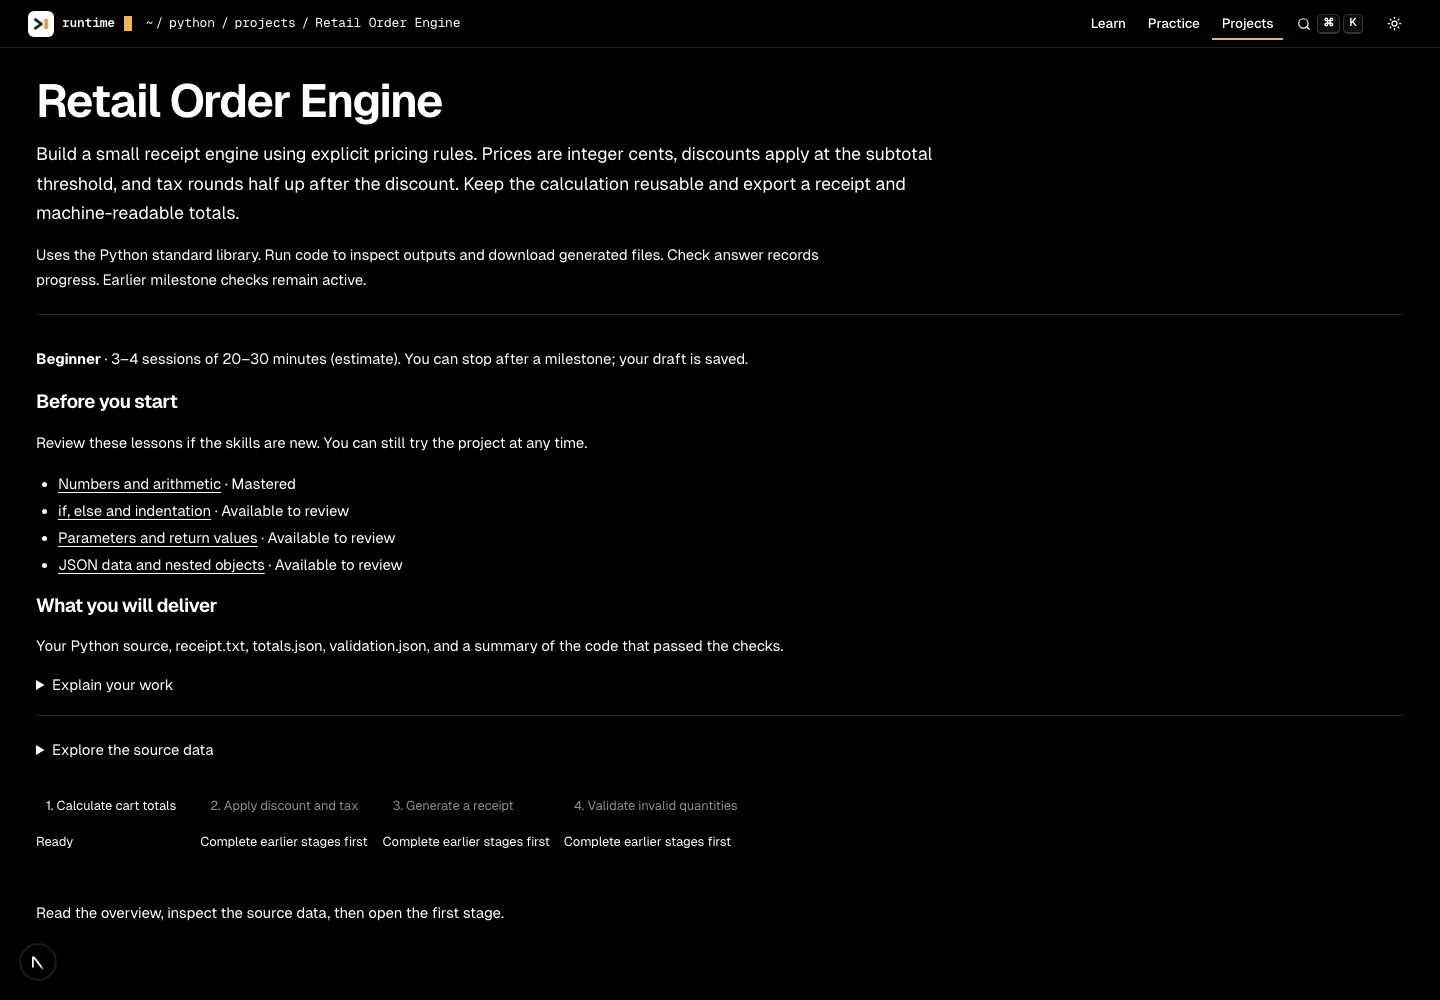
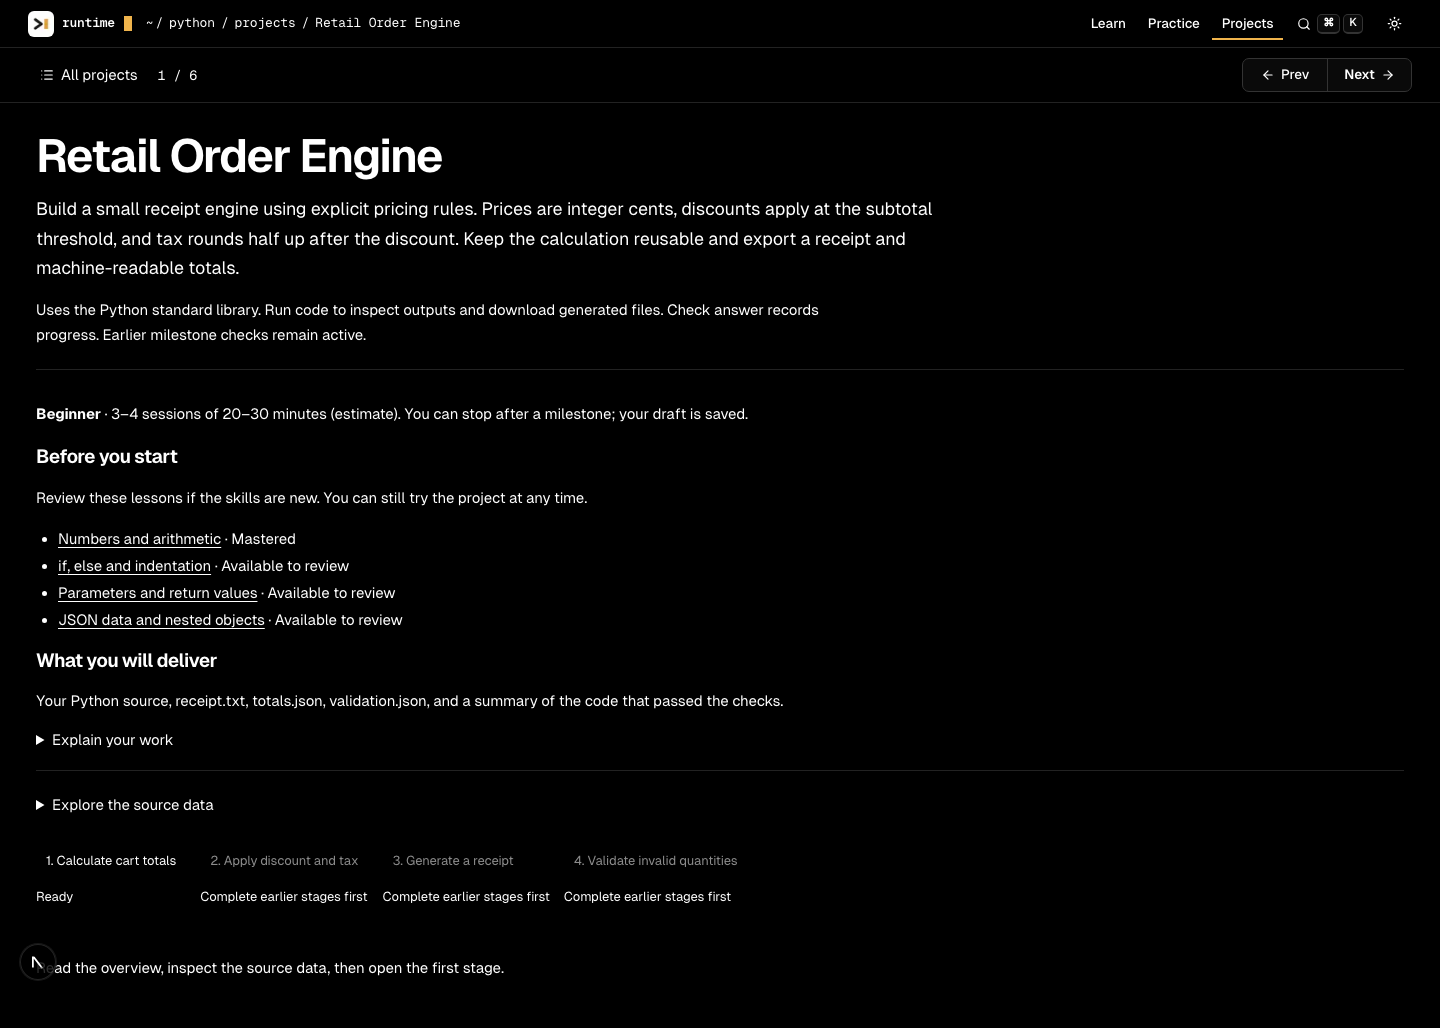
Align Python section navigation with SQL workspaces

diff --git a/src/features/py/Journeys.tsx b/src/features/py/Journeys.tsx
@@ -6,6 +6,7 @@ import { projectGuides, projectLevels, projectSkills } from '@/content/python/jo
 import { getPythonLesson, pythonLessonHref } from '@/content/python';
 import { isPyLessonMastered, usePyProgress, usePyProgressReady } from '@/lib/python-progress';
 import { Shell } from '@/features/rt/Shell';
+import { BrowserBar } from './BrowserBar';
 import { Exercise } from './Study';
 import { Download } from './Downloads';
 
@@ -70,12 +71,12 @@ function ProjectPreparation({ slug }: { slug: string }) {
   </div>;
 }
 
-export function Journey({ slug }: { slug: string }) {
+export function Journey({ slug, initialStage }: { slug: string; initialStage?: string }) {
   const j = pythonJourneys.find(j => j.slug === slug)!;
   const ready = usePyProgressReady();
   const rec = usePyProgress(s => s.items[j.ref]);
-  const [selected, setSelected] = useState<string | null>(null);
-  const selectedId = selected ?? rec?.tab;
+  const [selected, setSelected] = useState<string | null>(initialStage ?? null);
+  const selectedId = selected ?? (j.kind === 'case' ? rec?.tab : null);
   const index = j.stages.findIndex(s => s.id === selectedId);
   const stage = index >= 0 ? j.stages[index] : null;
   const previous = index > 0 ? j.stages[index - 1] : null;
@@ -89,11 +90,15 @@ export function Journey({ slug }: { slug: string }) {
   };
   const inheritedHelp = j.stages.slice(0,index).some(s => !!rec?.attempts[s.id]?.guided);
   return <Shell subject="python" section={j.kind === 'case' ? 'practice' : 'projects'} path={[{label:'python',href:'/python'},{label:j.kind === 'case' ? 'practice' : 'projects',href:j.kind === 'case' ? '/python/practice' : '/python/projects'},{label:j.title}]}>
+    {j.kind === 'project' && <BrowserBar label="All projects" current={journeyHref(j)} browseHref="/python/projects?browse=1" browseLabel="Project filters and preparation" items={pythonProjects.map(p => ({href:journeyHref(p), label:p.title}))} />}
     <section className="rx-page py-journey-intro">
+      {stage && j.kind === 'project' && <button className="rx-btn ghost" onClick={() => setSelected(null)}>Project brief</button>}
+      {(!stage || j.kind === 'case') && <>
       <h1 className="rx-title">{j.title}</h1><p className="rx-lead">{j.overview}</p>
       <p>{j.packages.length ? 'Uses pandas in your browser.' : 'Uses the Python standard library.'} Run code to inspect outputs and download generated files. Check answer records progress. Earlier milestone checks remain active.</p>
       {j.kind === 'project' && <ProjectPreparation slug={j.slug} />}
       <details><summary>Explore the source data</summary>{Object.entries(j.files).map(([name,text]) => <div key={name}><h2>{name}</h2><pre>{text}</pre><Download name={name} text={text} /></div>)}</details>
+      </>}
       <ol className="py-stage-list" aria-label="Milestones">{j.stages.map((s,n) => <li key={s.id}><button className="rx-btn" disabled={!ready || !available(n)} aria-current={stage?.id === s.id ? 'step' : undefined} onClick={() => open(n)}>{n+1}. {s.title}</button><span>{rec?.challenges[s.id]?.solved ? 'Independent' : rec?.challenges[s.id]?.assisted ? 'With help' : !available(n) ? 'Complete earlier stages first' : 'Ready'}</span></li>)}</ol>
     </section>
     {!ready ? <p role="status">Loading saved progress…</p> : stage && available(index) ? <Exercise key={stage.ref} itemRef={j.ref} id={stage.id} title={stage.title} question={stage} starterOverride={previous ? rec?.drafts[previous.id] ?? '' : stage.starter} inheritedHelp={inheritedHelp} next={index < j.stages.length - 1 ? <button className="rx-btn primary" onClick={() => open(index+1)}>Continue to milestone {index+2}</button> : <span>All stages passed. Run your final program to download its outputs, and download your source and verified summary.</span>} /> : <p className="rx-page">Read the overview, inspect the source data, then open the first stage.</p>}

diff --git a/src/features/py/Lesson.tsx b/src/features/py/Lesson.tsx
@@ -2,13 +2,14 @@
 
 import Link from "next/link";
 import { useEffect, useRef, useState } from "react";
-import { ArrowLeft, ArrowRight, Circle, CircleCheck, Eye, Lightbulb, Lock, RotateCcw } from "lucide-react";
-import { getPythonLesson, pythonLessonOrder, pythonModules, type PyChallenge, type PyLesson } from "@/content/python";
+import { ArrowRight, Circle, CircleCheck, Eye, Lightbulb, Lock, RotateCcw } from "lucide-react";
+import { getPythonLesson, pythonLessonOrder, pythonLessons, pythonLessonHref, pythonModules, type PyChallenge, type PyLesson } from "@/content/python";
 import type { PyGradeReport } from "@/engine/python/grading";
 import { emptyAttempt, emptyLesson, isPyLessonMastered, usePyProgress, usePyProgressReady, type PyLessonRecord } from "@/lib/python-progress";
 import { Shell } from "@/features/rt/Shell";
 import { CodePane, type CodePaneHandle } from "./CodePane";
 import { PyRunCell } from "./PyRunCell";
+import { BrowserBar } from "./BrowserBar";
 import { Rich } from "./Rich";
 
 type Tab = "challenge-1" | "challenge-2" | "check" | "complete";
@@ -47,7 +48,8 @@ function openingTab(lesson: PyLesson, rec: PyLessonRecord | undefined): Tab {
 export function PythonLesson({ slug }: { slug: string }) {
   const lesson = getPythonLesson(slug)!;
   const ready = usePyProgressReady();
-  const rec = usePyProgress((s) => s.lessons[lesson.ref]);
+  const lessons = usePyProgress((s) => s.lessons);
+  const rec = lessons[lesson.ref];
   const setTabStored = usePyProgress((s) => s.setTab);
   const ids = challengeIds(lesson);
   const mastered = isPyLessonMastered(rec, ids);
@@ -88,12 +90,7 @@ export function PythonLesson({ slug }: { slug: string }) {
       path={[{ label: "python", href: "/python" }, { label: mod.id, href: "/python" }, { label: `${pad(lesson.number)}-${lesson.slug}` }]}
       status={["Python", `lesson ${position + 1}/${pythonLessonOrder.length}`, "python 3.14 · runs in your browser", mastered ? "✓ mastered" : "drafts save as you type"]}
     >
-      <div className="rx-task py-lesson-bar" style={{ maxWidth: "none" }}>
-        <div className="rx-task-bar">
-          <Link href="/python" className="rx-btn ghost"><ArrowLeft size={14} /> {mod.title}</Link>
-          <span className="mono rx-small" style={{ margin: 0 }}>{pad(position + 1)} / {pad(pythonLessonOrder.length)}</span>
-        </div>
-      </div>
+      <BrowserBar label="All lessons" current={pythonLessonHref(slug)} browseHref="/python?browse=1" browseLabel="Course overview" items={pythonLessons.map(l => ({href:pythonLessonHref(l.slug), label:l.title, group:l.module, status:ready && isPyLessonMastered(lessons[l.ref], l.challenges.map(c => c.id)) ? '✓ mastered' : l.module}))} />
       <div className="rx-task rx-lesson py-lesson">
         <div className="rx-task-split">
           <article className="rx-brief" aria-labelledby="lesson-title">
@@ -396,7 +393,8 @@ function QuizPanel({ lesson, onNext }: { lesson: PyLesson; onNext: () => void })
 }
 
 function CompletePanel({ lesson }: { lesson: PyLesson }) {
-  const rec = usePyProgress((s) => s.lessons[lesson.ref]);
+  const lessons = usePyProgress((s) => s.lessons);
+  const rec = lessons[lesson.ref];
   const when = rec?.masteredAt ? new Date(rec.masteredAt).toLocaleDateString(undefined, { day: "numeric", month: "long", year: "numeric" }) : null;
   const next = pythonLessonOrder[pythonLessonOrder.indexOf(lesson.slug) + 1];
   return (

diff --git a/tests/python-entry.test.ts b/tests/python-entry.test.ts
@@ -1,0 +1,38 @@
+import { describe, it, expect } from 'vitest';
+import { pythonSectionHrefs } from '@/features/py/section-hrefs';
+import { pythonLessons, pythonLessonHref } from '@/content/python';
+import { pythonQuestions, pythonQuestionHref } from '@/content/python/practice';
+import { pythonProjects, journeyHref } from '@/content/python/journeys';
+import { normalizePyProgress } from '@/lib/python-progress';
+
+describe('Python follows SQL section entry rules', () => {
+  it('starts at the first lesson, question and project brief', () => {
+    expect(pythonSectionHrefs(normalizePyProgress({}))).toEqual({learn:pythonLessonHref(pythonLessons[0].slug), practice:pythonQuestionHref(pythonQuestions[0].slug), projects:journeyHref(pythonProjects[0])});
+  });
+  it('skips mastered lessons but keeps assisted work available for mastery', () => {
+    const first = pythonLessons[0];
+    const rec = {challenges:Object.fromEntries(first.challenges.map(c => [c.id,{solved:true}])),quiz:{passed:true}};
+    const state = normalizePyProgress({lessons:{[first.ref]:rec}});
+    expect(pythonSectionHrefs(state).learn).toBe(pythonLessonHref(pythonLessons[1].slug));
+    state.lessons[first.ref].challenges[first.challenges[0].id].solved = false;
+    expect(pythonSectionHrefs(state).learn).toBe(pythonLessonHref(first.slug));
+  });
+  it('resumes recent practice and advances past assisted answers', () => {
+    const q = pythonQuestions[4];
+    const state = normalizePyProgress({items:{[q.ref]:{updatedAt:10}}});
+    expect(pythonSectionHrefs(state).practice).toBe(pythonQuestionHref(q.slug));
+    const passed = normalizePyProgress({items:{[q.ref]:{updatedAt:10,challenges:{answer:{assisted:true}}}}});
+    expect(pythonSectionHrefs(passed).practice).toBe(pythonQuestionHref(pythonQuestions[5].slug));
+  });
+  it('resumes the most recent project at the next unpassed milestone', () => {
+    const p = pythonProjects[1];
+    const state = normalizePyProgress({items:{[p.ref]:{updatedAt:20,challenges:{[p.stages[0].id]:{passes:1,assisted:true}}},[pythonProjects[0].ref]:{updatedAt:10}}});
+    expect(pythonSectionHrefs(state).projects).toBe(`${journeyHref(p)}?stage=${p.stages[1].id}`);
+  });
+  it('returns completed work to a reviewable destination', () => {
+    const p = pythonProjects[0];
+    const state = normalizePyProgress({items:{[p.ref]:{updatedAt:20,challenges:Object.fromEntries(p.stages.map(s => [s.id,{passes:1}]))},...Object.fromEntries(pythonQuestions.map(q => [q.ref,{challenges:{answer:{solved:true}}}]))}});
+    expect(pythonSectionHrefs(state).projects).toBe(journeyHref(p));
+    expect(pythonSectionHrefs(state).practice).toBe(pythonQuestionHref(pythonQuestions[0].slug));
+  });
+});

diff --git a/src/features/py/BrowserBar.tsx b/src/features/py/BrowserBar.tsx
@@ -1,0 +1,39 @@
+"use client";
+import Link from 'next/link';
+import { useEffect, useRef, useState } from 'react';
+import { List, X } from 'lucide-react';
+import { Pager } from '@/features/rt/Pager';
+
+export type BrowserItem = { href: string; label: string; group?: string; status?: string };
+
+/** SQL's task bar and searchable drawer, using Python destinations and progress. */
+export function BrowserBar({ label, items, current, browseHref, browseLabel }: {
+  label: string; items: BrowserItem[]; current: string; browseHref: string; browseLabel: string;
+}) {
+  const [open, setOpen] = useState(false);
+  const [filter, setFilter] = useState('');
+  const trigger = useRef<HTMLButtonElement>(null);
+  const at = items.findIndex(i => i.href === current);
+  useEffect(() => {
+    if (!open) return;
+    const close = (e: KeyboardEvent) => { if (e.key === 'Escape') { setOpen(false); trigger.current?.focus(); } };
+    window.addEventListener('keydown', close);
+    return () => window.removeEventListener('keydown', close);
+  }, [open]);
+  const close = () => { setOpen(false); trigger.current?.focus(); };
+  return <div className="rx-task rx-lesson">
+    <div className="rx-task-bar">
+      <button ref={trigger} type="button" className="rx-btn ghost" aria-expanded={open} onClick={() => setOpen(!open)}><List size={14} />{label}</button>
+      <span className="mono rx-small" style={{margin:0}}>{at + 1} / {items.length}</span>
+      <span className="push" />
+      <Pager prev={items[at-1] ?? null} next={items[at+1] ?? null} />
+    </div>
+    {open && <div className="rx-drawer" role="dialog" aria-label={label}>
+      <div className="rx-drawer-head"><input aria-label={`Filter ${label.toLowerCase()}`} placeholder="filter…" value={filter} onChange={e => setFilter(e.target.value)} autoFocus /><button className="rx-btn ghost" aria-label="Close list" onClick={close}><X size={14} /></button></div>
+      <p><Link className="rx-link" href={browseHref}>{browseLabel} →</Link></p>
+      <ol>{items.filter(i => `${i.label} ${i.group ?? ''}`.toLowerCase().includes(filter.toLowerCase())).map(i => <li key={i.href}>
+        <Link href={i.href} aria-current={i.href === current ? 'page' : undefined} onClick={() => setOpen(false)}><span>{i.label}</span><span className="mono k">{i.status ?? i.group}</span></Link>
+      </li>)}</ol>
+    </div>}
+  </div>;
+}

diff --git a/src/features/py/Practice.tsx b/src/features/py/Practice.tsx
@@ -1,12 +1,13 @@
 "use client";
 
 import Link from 'next/link';
-import { useState } from 'react';
+import { useEffect, useState } from 'react';
 import { pythonQuestions, pythonTracks, getPythonQuestion, getPythonQuestionByRef, getPythonTrack, pythonQuestionHref, pythonTrackHref, type PyQuestion } from '@/content/python/practice';
 import { pythonCases, journeyHref } from '@/content/python/journeys';
 import { pythonModules } from '@/content/python';
 import { usePyProgress, usePyProgressReady } from '@/lib/python-progress';
 import { Shell } from '@/features/rt/Shell';
+import { BrowserBar } from './BrowserBar';
 import { Exercise } from './Study';
 
 export function PracticeIndex({ trackSlug, initialModule = '' }: { trackSlug?: string; initialModule?: string }) {
@@ -40,10 +41,15 @@ export function PracticeIndex({ trackSlug, initialModule = '' }: { trackSlug?: s
 
 export function PracticeQuestion({ slug }: { slug: string }) {
   const ready = usePyProgressReady();
+  const items = usePyProgress(s => s.items);
   const q = getPythonQuestion(slug)!;
   const index = pythonQuestions.indexOf(q);
   const next = pythonQuestions[index + 1];
+  useEffect(() => {
+    if (ready) usePyProgress.getState().setTab(q.ref, 'answer');
+  }, [ready, q.ref]);
   return <Shell subject="python" section="practice" path={[{label:'python',href:'/python'},{label:'practice',href:'/python/practice'},{label:q.slug}]}>
+    <BrowserBar label="All questions" current={pythonQuestionHref(slug)} browseHref="/python/practice?browse=1" browseLabel="Tracks, cases, and question filters" items={pythonQuestions.map(q => ({href:pythonQuestionHref(q.slug),label:q.title,group:q.module,status:ready && items[q.ref]?.challenges.answer?.solved ? '✓ solved' : ready && items[q.ref]?.challenges.answer?.assisted ? 'with help' : q.difficulty}))} />
     {ready ? <Exercise key={q.ref} itemRef={q.ref} id="answer" title={q.title} question={q} next={next && <Link href={pythonQuestionHref(next.slug)}>Next question: {next.title}</Link>} /> : <p role="status" className="rx-page">Loading saved progress…</p>}
   </Shell>;
 }

diff --git a/src/features/py/section-hrefs.ts b/src/features/py/section-hrefs.ts
@@ -1,0 +1,22 @@
+import { pythonLessons, pythonLessonHref } from '@/content/python';
+import { pythonQuestions, pythonQuestionHref } from '@/content/python/practice';
+import { pythonProjects, journeyHref } from '@/content/python/journeys';
+import { isPyLessonMastered, type PyProgress } from '@/lib/python-progress';
+
+/** Match SQL's entry rules without sharing its progress or identifiers. */
+export function pythonSectionHrefs(s: PyProgress) {
+  const lesson = pythonLessons.find(l => !isPyLessonMastered(s.lessons[l.ref], l.challenges.map(c => c.id))) ?? pythonLessons[0];
+  const recent = pythonQuestions.filter(q => s.items[q.ref]).sort((a,b) => s.items[b.ref].updatedAt - s.items[a.ref].updatedAt)[0];
+  const at = recent ? pythonQuestions.indexOf(recent) : 0;
+  const question = [...pythonQuestions.slice(at), ...pythonQuestions.slice(0,at)].find(q => {
+    const r = s.items[q.ref]?.challenges.answer;
+    return !r?.solved && !r?.assisted;
+  }) ?? pythonQuestions[0];
+  const project = pythonProjects.filter(p => s.items[p.ref]).sort((a,b) => s.items[b.ref].updatedAt - s.items[a.ref].updatedAt)[0];
+  const stage = project?.stages.find(stage => !s.items[project.ref]?.challenges[stage.id]?.passes);
+  return {
+    learn: pythonLessonHref(lesson.slug),
+    practice: pythonQuestionHref(question.slug),
+    projects: project ? `${journeyHref(project)}${stage ? `?stage=${encodeURIComponent(stage.id)}` : ''}` : journeyHref(pythonProjects[0]),
+  };
+}

diff --git a/src/app/python/practice/page.tsx b/src/app/python/practice/page.tsx
@@ -1,11 +1,14 @@
 import { notFound } from "next/navigation";
 import { pythonRunnerEnabled } from "@/platform/python-runner";
 import { pythonModules } from "@/content/python";
+import { PythonEntry } from "@/features/py/Entry";
 import { PracticeIndex } from "@/features/py/Practice";
 export const metadata = { robots: { index:false, follow:false } };
-export default async function Page({ searchParams }: { searchParams: Promise<{ module?: string | string[] }> }) {
+export default async function Page({ searchParams }: { searchParams: Promise<{ module?: string | string[]; browse?: string }> }) {
  if (!pythonRunnerEnabled()) notFound();
- const requested = (await searchParams).module;
+ const params = await searchParams;
+ const requested = params.module;
+ if (params.browse !== "1" && requested === undefined) return <PythonEntry section="practice" />;
  const moduleId = pythonModules.some(m => m.id === requested) ? requested as string : '';
  return <PracticeIndex key={moduleId} initialModule={moduleId} />;
 }

diff --git a/src/features/py/Entry.tsx b/src/features/py/Entry.tsx
@@ -1,0 +1,20 @@
+"use client";
+import { useLayoutEffect, useRef } from 'react';
+import { useRouter } from 'next/navigation';
+import { usePyProgress, usePyProgressReady } from '@/lib/python-progress';
+import { Shell } from '@/features/rt/Shell';
+import { pythonSectionHrefs } from './section-hrefs';
+
+export function PythonEntry({ section }: { section: 'learn' | 'practice' | 'projects' }) {
+  const router = useRouter();
+  const ready = usePyProgressReady();
+  const opened = useRef(false);
+  useLayoutEffect(() => {
+    if (!ready || opened.current) return;
+    opened.current = true;
+    router.replace(pythonSectionHrefs(usePyProgress.getState())[section]);
+  }, [ready, router, section]);
+  return <Shell subject="python" section={section} path={[{label:'python'}, {label:section}]}>
+    <div className="rx-page" aria-busy="true" aria-label="Opening your work" />
+  </Shell>;
+}

diff --git a/src/app/python/projects/[slug]/page.tsx b/src/app/python/projects/[slug]/page.tsx
@@ -5,8 +5,8 @@ import { pythonProjects } from "@/content/python/journeys";
 export const dynamicParams = false;
 export function generateStaticParams() { return pythonProjects.map(x => ({slug:x.slug})); }
 export const metadata = { robots: { index:false, follow:false } };
-export default async function Page({params}: {params: Promise<{slug:string}>}) {
+export default async function Page({params, searchParams}: {params: Promise<{slug:string}>; searchParams: Promise<{stage?:string}>}) {
  const {slug} = await params;
  if (!pythonRunnerEnabled() || !pythonProjects.some(x => x.slug === slug)) notFound();
- return <Journey slug={slug} />;
+ return <Journey key={slug + ((await searchParams).stage ?? "brief")} slug={slug} initialStage={(await searchParams).stage} />;
 }

diff --git a/src/app/python/page.tsx b/src/app/python/page.tsx
@@ -1,5 +1,6 @@
 import type { Metadata } from "next";
 import { notFound } from "next/navigation";
+import { PythonEntry } from "@/features/py/Entry";
 import { PythonHome } from "@/features/py/Home";
 import { pythonRunnerEnabled } from "@/platform/python-runner";
 
@@ -11,7 +12,7 @@ export const metadata: Metadata = {
 };
 
 /** Python home. Only exists where the Python runner is allowed (see platform/python-runner.ts). */
-export default function Page() {
+export default async function Page({ searchParams }: { searchParams: Promise<{ browse?: string }> }) {
   if (!pythonRunnerEnabled()) notFound();
-  return <PythonHome />;
+  return (await searchParams).browse === "1" ? <PythonHome /> : <PythonEntry section="learn" />;
 }

diff --git a/src/app/python/projects/page.tsx b/src/app/python/projects/page.tsx
@@ -1,8 +1,9 @@
 import { notFound } from "next/navigation";
 import { pythonRunnerEnabled } from "@/platform/python-runner";
+import { PythonEntry } from "@/features/py/Entry";
 import { ProjectIndex } from "@/features/py/Journeys";
 export const metadata = { robots: { index:false, follow:false } };
-export default function Page() {
+export default async function Page({ searchParams }: { searchParams: Promise<{ browse?: string }> }) {
  if (!pythonRunnerEnabled()) notFound();
- return <ProjectIndex  />;
+ return (await searchParams).browse === "1" ? <ProjectIndex /> : <PythonEntry section="projects" />;
 }

diff --git a/src/app/python/lesson/[slug]/page.tsx b/src/app/python/lesson/[slug]/page.tsx
@@ -23,5 +23,5 @@ export async function generateMetadata({ params }: Props): Promise<Metadata> {
 export default async function Page({ params }: Props) {
   const lesson = getPythonLesson((await params).slug);
   if (!pythonRunnerEnabled() || !lesson) notFound();
-  return <PythonLesson slug={lesson.slug} />;
+  return <PythonLesson key={lesson.slug} slug={lesson.slug} />;
 }
